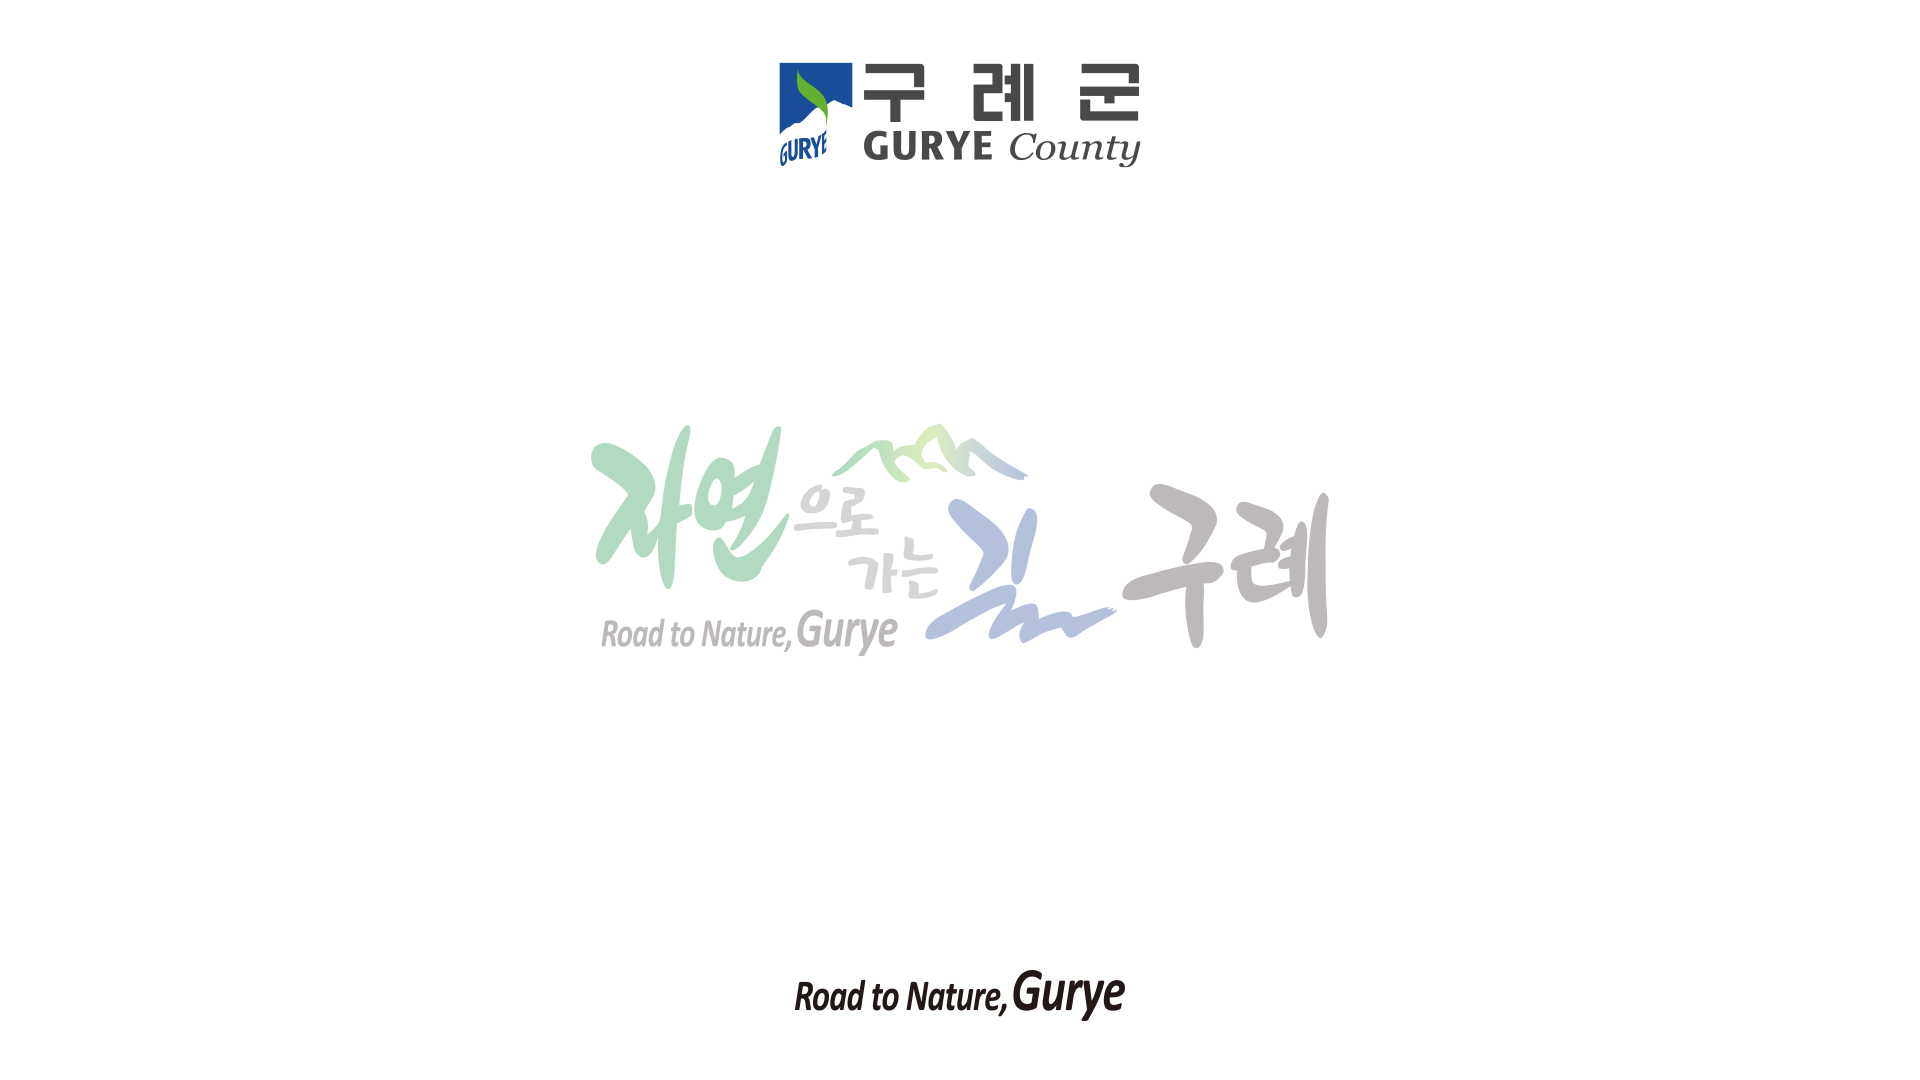
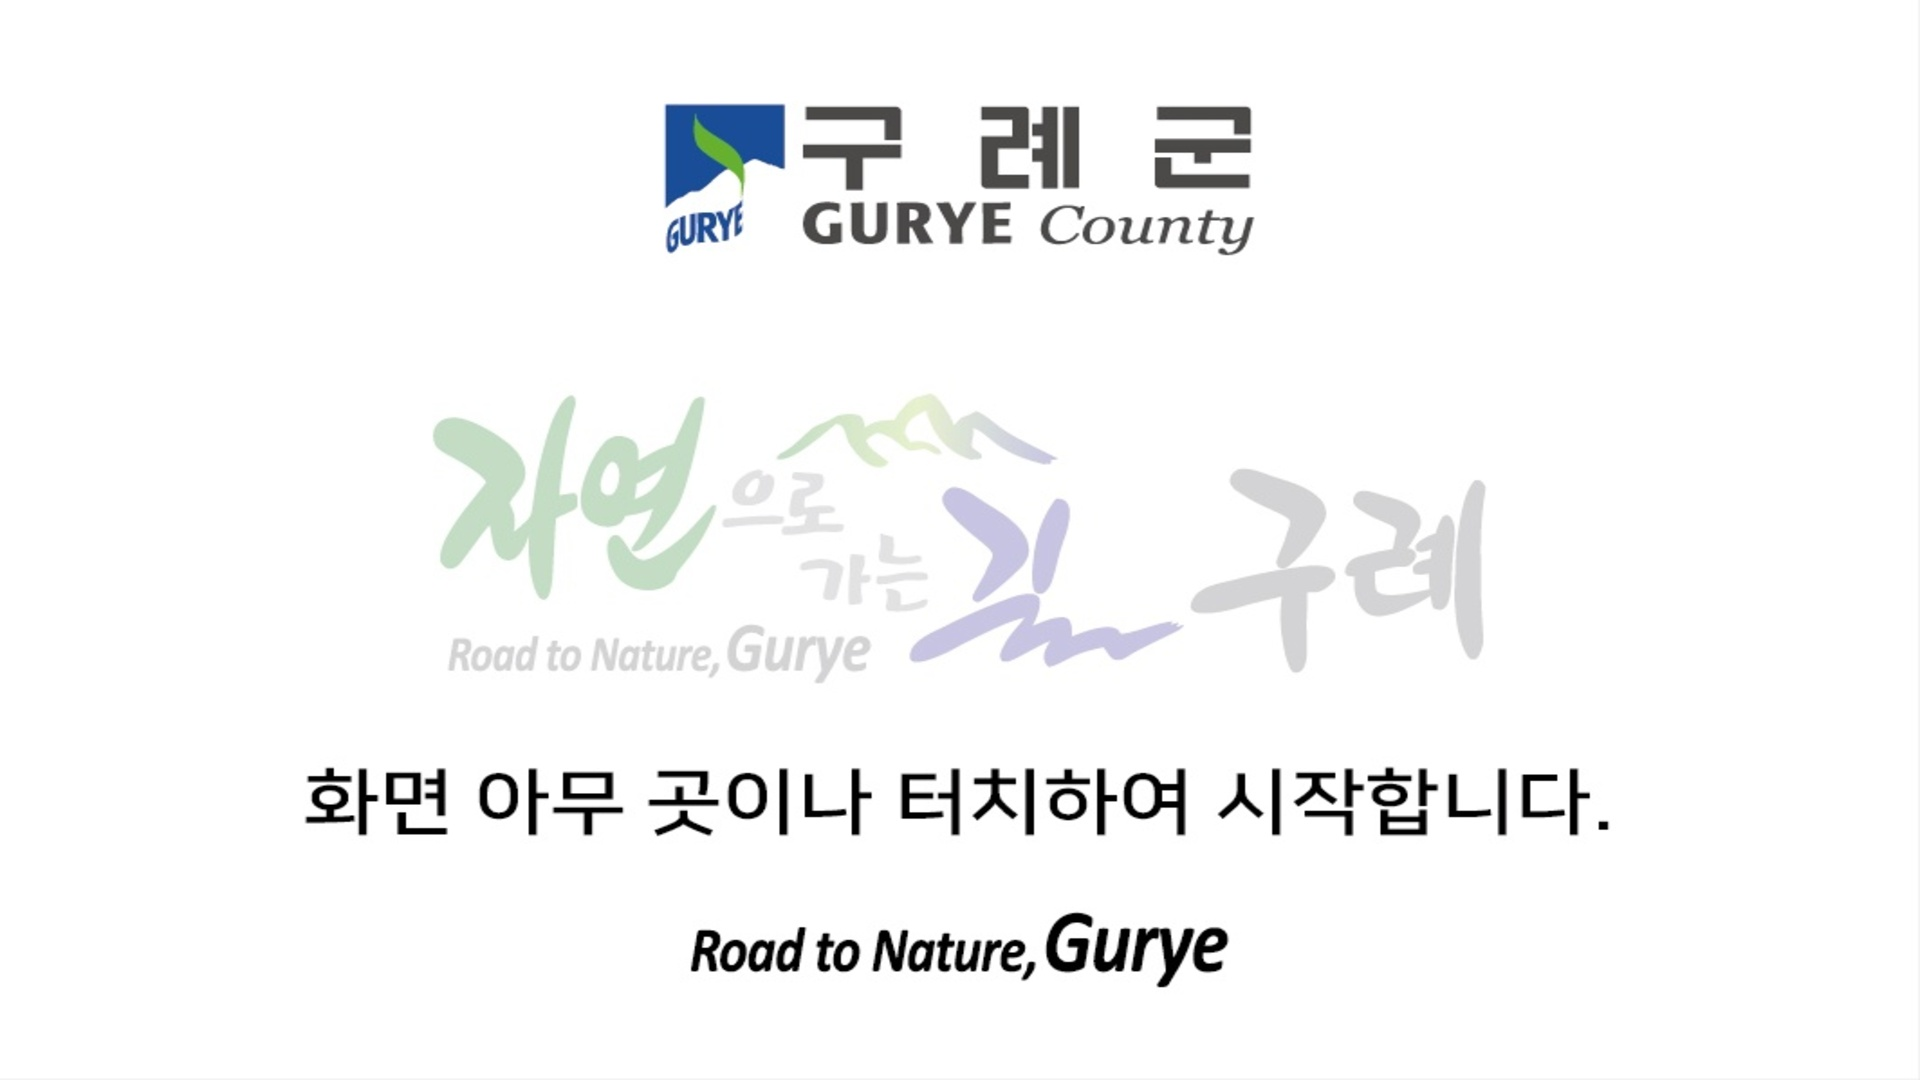
bg이미지 수정

diff --git a/src/screens/photo_screen.py b/src/screens/photo_screen.py
@@ -50,7 +50,7 @@ class PhotoScreen(QWidget):
         
     def initUI(self):
         # 배경 이미지 설정
-        bg_image_path = os.path.join(Config.RESOURCES_DIR, 'main.png')
+        bg_image_path = os.path.join(Config.RESOURCES_DIR, 'photo_bg.png')
         self.background = QLabel(self)
         self.background.setFixedSize(Config.DISPLAY_WIDTH, Config.DISPLAY_HEIGHT)
         pixmap = QPixmap(bg_image_path).scaled(

diff --git a/src/screens/virtual_keyboard.py b/src/screens/virtual_keyboard.py
@@ -36,7 +36,7 @@ class VirtualKeyboard(QWidget):
         self.input_widget = input_widget
         self.second_screen = second_screen  # SecondScreen 인스턴스 저장
 
-        self.is_hangul = False
+        self.is_hangul = True
         self.is_uppercase = False
         self.hangul_composer = HangulComposer()
                 # 제목 표시줄 제거 및 항상 상위에 유지

diff --git a/src/screens/info_screen.py b/src/screens/info_screen.py
@@ -469,7 +469,7 @@ class InfoScreen(QWidget):
         self.name_input.clear()
         self.birth_input.clear()
         self.rotation_angle = 0
-        self.zoom_slider.setValue(10)
+        self.zoom_slider.setValue(40)
         self.image_position = {"x": 0, "y": 0}
         self.update_preview()
         # self.keyboard.hide()
